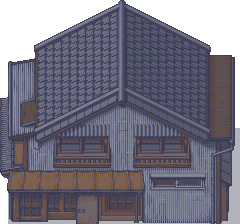
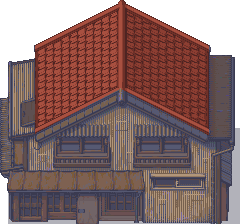
Fresh paint for repaired buildings: farmhouse roof at the second repair, roof and walls at the third; the restored Lantern Post in warm colours
Claude-Session: https://claude.ai/code/session_01UCvMP3hAQ7S5xitSmMnWDY

diff --git a/tools/paint_buildings.py b/tools/paint_buildings.py
@@ -1,0 +1,137 @@
+"""A fresh coat of paint for buildings you fix up (Daniel, Nov 23), so they match the town once repaired.
+Run from import_packs.py with OUT and save (after the building pictures are written), or alone:
+python3 tools/paint_buildings.py <art>.
+
+  farmhouse_3.png   Hal's second repair: the rusty roof painted barn red
+  farmhouse_4.png   Hal's last repair: the roof painted, the plank walls painted cream, clean all over
+  tavern_open.png   the Lantern Post once it's restored: slate roof red, grey metal walls warm wood brown
+Art.building_art uses buildings/<kind>_<condition>.png as it is (no wear drawn on) when it exists.
+
+How: each part (roof, walls) is picked out by where it is on the picture and what colour it is, then every pixel
+in it is given one of four shades of the new paint by how light it was (split at that part's quartiles), so the
+pattern of the corrugation, slates and planks stays and the rust, grime and odd colours go.
+"""
+import colorsys
+import os
+import sys
+from PIL import Image
+
+if "OUT" not in globals():
+    OUT = sys.argv[1]
+
+    def save(im, rel):
+        p = os.path.join(OUT, rel)
+        os.makedirs(os.path.dirname(p), exist_ok=True)
+        im.save(p)
+
+
+def lum(c):
+    return (0.3 * c[0] + 0.59 * c[1] + 0.11 * c[2]) / 255
+
+
+def hsv(c):
+    return colorsys.rgb_to_hsv(c[0] / 255, c[1] / 255, c[2] / 255)
+
+
+def hexc(h):
+    return tuple(int(h[i:i + 2], 16) for i in (1, 3, 5))
+
+
+def paint(im, pick, ramp, keep_dark=0.16):
+    """Repaint the pixels pick(x, y, c) chooses with the four-shade ramp (dark to light)."""
+    px = im.load()
+    pts = []
+    for y in range(im.height):
+        for x in range(im.width):
+            c = px[x, y]
+            if c[3] < 200 or lum(c) < keep_dark:
+                continue
+            if pick(x, y, c):
+                pts.append((x, y, lum(c)))
+    if not pts:
+        return
+    ls = sorted(p[2] for p in pts)
+    q = [ls[len(ls) * k // 4] for k in (1, 2, 3)]
+    cols = [hexc(h) for h in ramp]
+    for x, y, l in pts:
+        i = 0 if l < q[0] else 1 if l < q[1] else 2 if l < q[2] else 3
+        px[x, y] = cols[i] + (px[x, y][3],)
+
+
+def scrub(im, pick, amount=0.5):
+    """Clean without repainting: pull odd-coloured specks toward the part's average colour, a touch lighter."""
+    px = im.load()
+    pts = [(x, y) for y in range(im.height) for x in range(im.width) if px[x, y][3] >= 200 and lum(px[x, y]) >= 0.16 and pick(x, y, px[x, y])]
+    if not pts:
+        return
+    avg = [sum(px[x, y][i] for x, y in pts) / len(pts) for i in range(3)]
+    for x, y in pts:
+        c = px[x, y]
+        h, s, v = hsv(c)
+        # keep the light and dark of each pixel, take the hue and saturation toward the average
+        ah, as_, av = colorsys.rgb_to_hsv(*(a / 255 for a in avg))
+        r, g, b = colorsys.hsv_to_rgb(ah, as_ * (1 - amount) + s * amount * 0.6, min(1.0, v * 1.06))
+        px[x, y] = (int(r * 255), int(g * 255), int(b * 255), c[3])
+
+
+n = 0
+src = os.path.join(OUT, "buildings", "farmhouse.png")
+if os.path.isfile(src):
+    base = Image.open(src).convert("RGBA")
+    EAVE = 97   # the roof ends and the plank walls begin here
+
+    def roof(x, y, c):
+        if 12 <= x <= 26 and y <= 36:
+            return False      # the chimney and aerial
+        return y < EAVE
+
+    # the farmhouse's own bits that keep their colours: windows, awning, door, mailbox, the side vent, a lamp
+    KEEP = [(20, 99, 44, 117), (66, 98, 96, 118), (107, 99, 138, 131), (141, 103, 154, 117), (170, 93, 192, 108),
+            (49, 99, 61, 109)]
+
+    def walls(x, y, c):
+        if y < EAVE or y >= 132:
+            return False      # the roof above, the steps below
+        if x >= 160 and y >= 116:
+            return False      # the stone footing round the side
+        for r in KEEP:
+            if r[0] <= x <= r[2] and r[1] <= y <= r[3]:
+                return False
+        h, s, v = hsv(c)
+        return s <= 0.4
+
+    RED = ["#5a2622", "#863428", "#a5463a", "#c25a4a"]
+    CREAM = ["#8a7a62", "#c8b894", "#ddd0ae", "#efe6cc"]
+    im3 = base.copy()
+    paint(im3, roof, RED)
+    save(im3, "buildings/farmhouse_3.png")
+    im4 = base.copy()
+    paint(im4, roof, RED)
+    paint(im4, walls, CREAM)
+    save(im4, "buildings/farmhouse_4.png")
+    n += 2
+
+src = os.path.join(OUT, "buildings", "tavern.png")
+if os.path.isfile(src):
+    base = Image.open(src).convert("RGBA")
+
+    def eave(x):
+        return 88 + abs(x - 120) * 0.53
+
+    def t_roof(x, y, c):
+        return 35 <= x <= 208 and y < eave(x) and y < 138
+
+    def t_walls(x, y, c):
+        if t_roof(x, y, c) or y >= 222:
+            return False
+        h, s, v = hsv(c)
+        if s > 0.22 and 0.02 <= h <= 0.14:
+            return False      # wooden awning, window frames, door, the brown side wall
+        return s < 0.24 and 0.45 <= h <= 0.8 or s < 0.1
+
+    im = base.copy()
+    paint(im, t_roof, ["#4e2422", "#6e3028", "#8c3e32", "#a85040"])
+    paint(im, t_walls, ["#4e3c32", "#76604e", "#957a62", "#b2967a"])
+    save(im, "buildings/tavern_open.png")
+    n += 1
+print("painted buildings:", n)

diff --git a/tools/import_packs.py b/tools/import_packs.py
@@ -2455,3 +2455,6 @@ runpy.run_path(os.path.join(os.path.dirname(os.path.abspath(__file__)), "farm_bu
 
 # ---------------------------------------------------------------- guns from the Starbound "Realistic Weapons" sheet (Nov 23)
 runpy.run_path(os.path.join(os.path.dirname(os.path.abspath(__file__)), "starbound_guns.py"), init_globals={"SRC": SRC, "OUT": OUT, "save": save})
+
+# ---------------------------------------------------------------- a fresh coat of paint for repaired buildings (Nov 23)
+runpy.run_path(os.path.join(os.path.dirname(os.path.abspath(__file__)), "paint_buildings.py"), init_globals={"OUT": OUT, "save": save})

diff --git a/PROJECT_STATE.md b/PROJECT_STATE.md
@@ -935,6 +935,17 @@ changed on the calendar: summer 23 is now the Militia Trials, autumn 25 is Hollo
   above a person's head (rows under the top outline are taken out until the top is at row 8). Screenshot mode
   `zgallery` saves every infected look.
 
+### Nov 23: a fresh coat of paint for repaired buildings (`tools/paint_buildings.py`, run last by the importer)
+- Daniel: the second or third upgrade should look repainted, to match the town. Each part (roof, walls) is picked
+  out by place and colour, and every pixel in it gets one of four shades of the new paint by how light it was
+  (split at that part's quartiles), so the corrugation, slates and planks stay and the rust and grime go.
+  - Farmhouse (Hal's repairs, `flags.house_condition`): stage 3 (second repair) `buildings/farmhouse_3.png`, the
+    rusty roof painted barn red; stage 4 (third repair) `farmhouse_4.png`, roof red and plank walls cream. Windows,
+    awning, door, mailbox, vent and lamp keep their colours (`KEEP` boxes). Stages 0 to 2 keep the drawn wear.
+  - The Lantern Post once restored (`tavern_open`): slate roof red, grey metal walls warm brown. Unrestored it stays
+    grey and worn.
+  - `Art.building_art` uses `buildings/<kind>_<condition>.png` as it is when it exists (snow still added in winter).
+
 ### Agreed with Daniel on Nov 22 (the order after item 29)
 - Standing rule: every future map and world-building idea includes height (hills, cliffs, slopes, steps).
 1. Terrain with height: done Nov 22 (two passes, see above).
